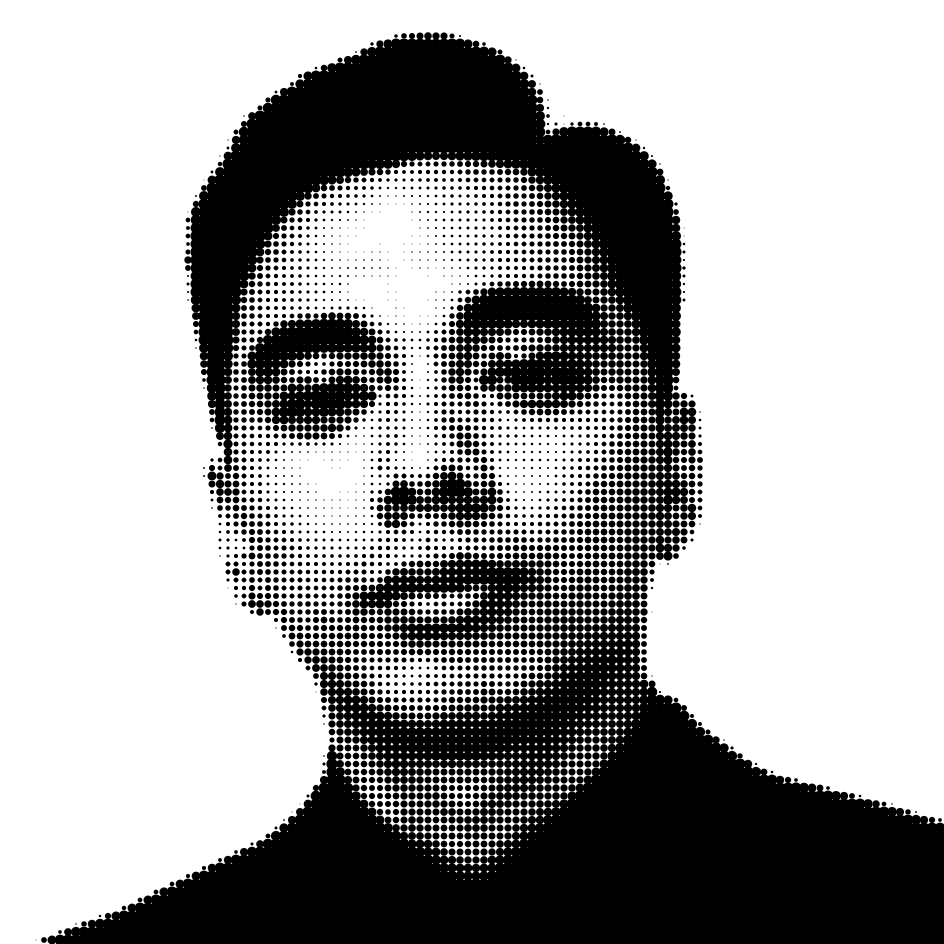
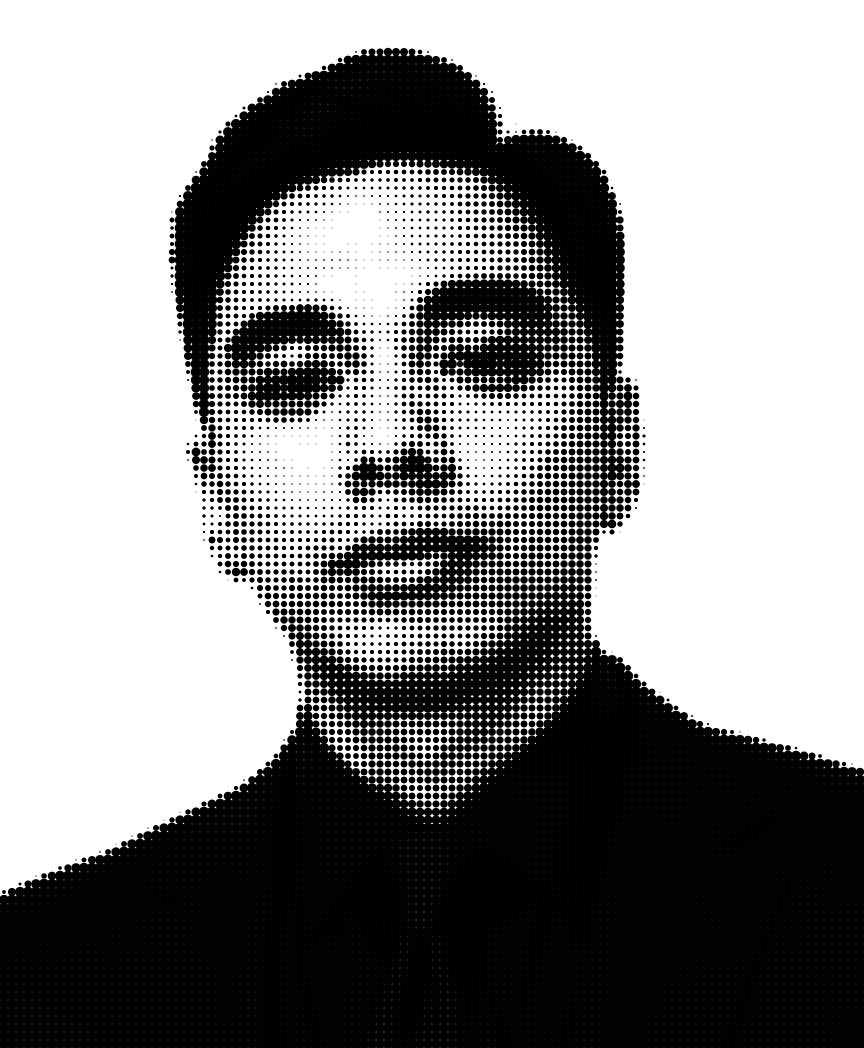
Update headshot image processing and adjust layout for improved aspect ratio. The halftone generation script was modified to accommodate new dimensions, and the homepage image styling was refined to better align with the updated proportions.

diff --git a/app/page.tsx b/app/page.tsx
@@ -83,20 +83,21 @@ export default function Home() {
     >
       {/* Hero */}
       <section className="flex flex-col gap-6 sm:flex-row sm:gap-7">
-        {/* Square box to match the source, which is 1:1. The old 182x221 and
-            aspect-[4/5] boxes cropped ~20% off each side — survivable on a
-            full-body shot, but on a headshot it cut into the shoulders. 200px
-            keeps roughly the area the 182x221 box had, so the hero still
-            balances against the text beside it. */}
+        {/* 182x221, the reference's proportions. A 200px square left the text
+            column at 364px — about 47 characters a line, short enough that
+            justifying it opened visible rivers between words — and stood 58px
+            shorter than the text beside it. The portrait box widens the
+            measure and closes most of that height gap.
+
+            sm:self-start matters: the hero is a flex row on desktop, and the
+            default align-items:stretch would pull the image to the text
+            block's height and defeat the aspect ratio. Only applied from sm
+            up, so mx-auto keeps centring it on phones. */}
         <Image
           src={headshot}
           alt={`Portrait of ${profile.name}`}
           priority
-          // sm:self-start matters: the hero is a flex row on desktop, and the
-          // default align-items:stretch would pull the image to the text
-          // block's height and defeat aspect-square. Only applied from sm up,
-          // so mx-auto keeps centring it on phones.
-          className="mx-auto aspect-square w-[200px] max-w-[60%] shrink-0 rounded-lg border border-line object-cover sm:mx-0 sm:max-w-none sm:self-start"
+          className="mx-auto aspect-[182/221] w-[182px] max-w-[55%] shrink-0 rounded-lg border border-line object-cover sm:mx-0 sm:max-w-none sm:self-start"
         />
         <div>
           {/* Hero type is the reference's, read off its computed styles rather

diff --git a/scripts/halftone.py b/scripts/halftone.py
@@ -13,36 +13,51 @@ averaged by ffmpeg) and writes a PITCH-scaled raw gray frame on stdout.
 
 Regenerate app/headshot-halftone.png with:
 
-  C=118; P=8; W=$((C*P))
+  C=108; R=131; P=8
   ffmpeg -i app/headshot.jpg \
-    -vf "crop=720:720:265:45,format=gray,\
-curves=all='0/0 0.36/0.28 0.82/1 1/1',scale=$C:$C:flags=area" \
+    -vf "crop=720:874:265:30,format=gray,\
+curves=all='0/0.10 0.36/0.32 0.82/1 1/1',scale=$C:$R:flags=area" \
     -f rawvideo -pix_fmt gray - \
-   | python3 scripts/halftone.py $C $P 1.0 0.72 \
-   | ffmpeg -f rawvideo -pix_fmt gray -s ${W}x${W} -i - -frames:v 1 \
+   | python3 scripts/halftone.py $C $R $P 1.0 0.72 \
+   | ffmpeg -f rawvideo -pix_fmt gray -s $((C*P))x$((R*P)) -i - -frames:v 1 \
        app/headshot-halftone.png -y
 
-CELLS is 118 rather than the reference's 170 because the box here is 200px
-wide, not 288 — matching dots-per-CSS-pixel is what makes the texture read at
-the same size. The curve lifts the lit side of the face to pure white so the
-dots describe the shadows, which is what the reference does.
+108x131 cells, not the reference's 170 across: the box here is 182x221, not
+288 wide, and what has to match is dots per CSS pixel (1.69), not dot count.
+
+The curve does two things. Pulling 0.82 up to white clips the lit side of the
+face so the dots only describe shadows, as the reference does. Lifting 0 to
+0.10 keeps the black suit from collapsing into one solid mass — the reference
+gets that texture for free from a mid-grey jacket, this photo does not.
+
+The suit is meant to read as a solid black mass; two attempts at pulling
+texture out of it were tried and rejected. Recorded so they are not retried
+blind: the tie is not separable from the jacket below the knot, where centre
+minus lapel luminance measures -1.1 and +0.6 out of 255 against +18.7 across
+the upper chest, so lifting the shadows there greys the whole jacket without
+revealing a tie. And the curve is the weaker lever for lightening anyway — at
+RMAX 0.72 a dot only has to reach radius 0.5*PITCH to touch its neighbours,
+which the suit clears at almost any lift, so it merges regardless; dropping
+RMAX to 0.66 is what actually opens the dark end.
 """
 import sys
 
-CELLS = int(sys.argv[1])  # dots across
-PITCH = int(sys.argv[2])  # output pixels per dot
-GAMMA = float(sys.argv[3])  # <1 darkens midtones, >1 lightens
-RMAX = float(sys.argv[4])  # max radius as a fraction of PITCH
+COLS = int(sys.argv[1])  # dots across
+ROWS = int(sys.argv[2])  # dots down
+PITCH = int(sys.argv[3])  # output pixels per dot
+GAMMA = float(sys.argv[4])  # <1 darkens midtones, >1 lightens
+RMAX = float(sys.argv[5])  # max radius as a fraction of PITCH
 
 src = sys.stdin.buffer.read()
-assert len(src) >= CELLS * CELLS, f"expected {CELLS*CELLS} bytes, got {len(src)}"
+assert len(src) >= COLS * ROWS, f"expected {COLS*ROWS} bytes, got {len(src)}"
 
-W = CELLS * PITCH
-out = bytearray(b"\xff" * (W * W))  # start white
+W = COLS * PITCH
+H = ROWS * PITCH
+out = bytearray(b"\xff" * (W * H))  # start white
 
-for cy in range(CELLS):
-    for cx in range(CELLS):
-        lum = src[cy * CELLS + cx] / 255.0
+for cy in range(ROWS):
+    for cx in range(COLS):
+        lum = src[cy * COLS + cx] / 255.0
         darkness = (1.0 - lum) ** GAMMA
         if darkness <= 0.001:
             continue
@@ -55,7 +70,7 @@ for cy in range(CELLS):
         lo_x = max(0, int(ox - r - 1))
         hi_x = min(W, int(ox + r + 2))
         lo_y = max(0, int(oy - r - 1))
-        hi_y = min(W, int(oy + r + 2))
+        hi_y = min(H, int(oy + r + 2))
 
         for y in range(lo_y, hi_y):
             dy = y + 0.5 - oy
